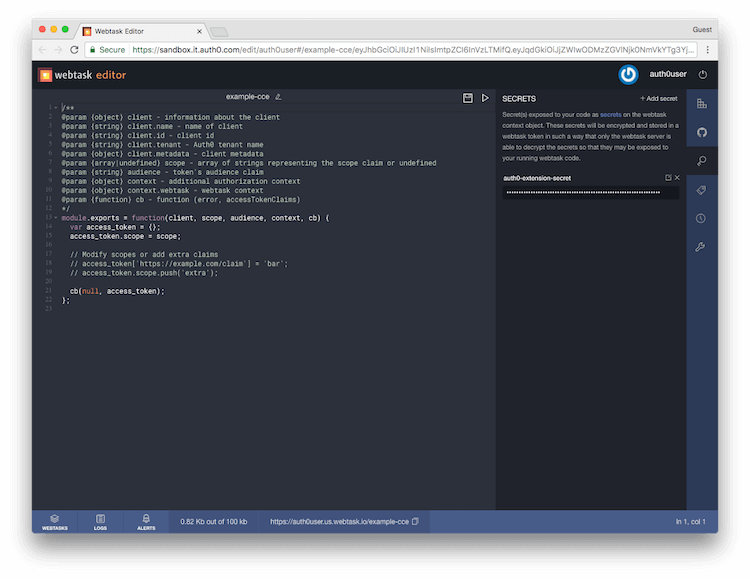
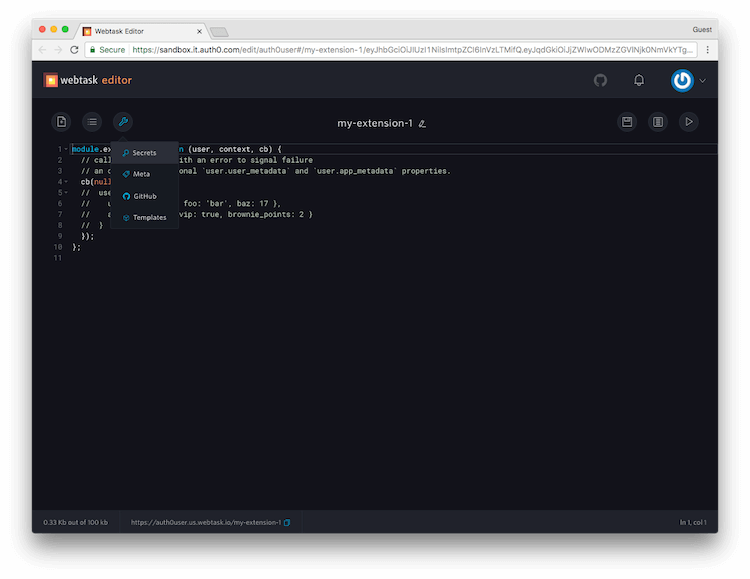
Fix Webtask Editor screenshots

diff --git a/articles/auth0-hooks/cli/edit.md b/articles/auth0-hooks/cli/edit.md
@@ -18,6 +18,6 @@ If the CLI cannot open the Editor window automatically, you can copy and paste t
 
 ## Manipulate Secrets
 
-If you [provisioned a secret to your Hook](/auth0-hooks/cli/create-delete#provision-secrets-to-new-hooks) during creation, you can manipulate it by click on the **key** icon at the right-side of the Webtask Editor window.
+If you [provisioned a secret to your Hook](/auth0-hooks/cli/create-delete#provision-secrets-to-new-hooks) during creation, you can manipulate it by clicking on the **wrench** at the top left of the Webtask Editor window and selecting **Secrets** from the dropdown menu.
 
   ![Webtask Editor Secrets pane](/media/articles/auth0-hooks/webtask-editor-secrets.png)
